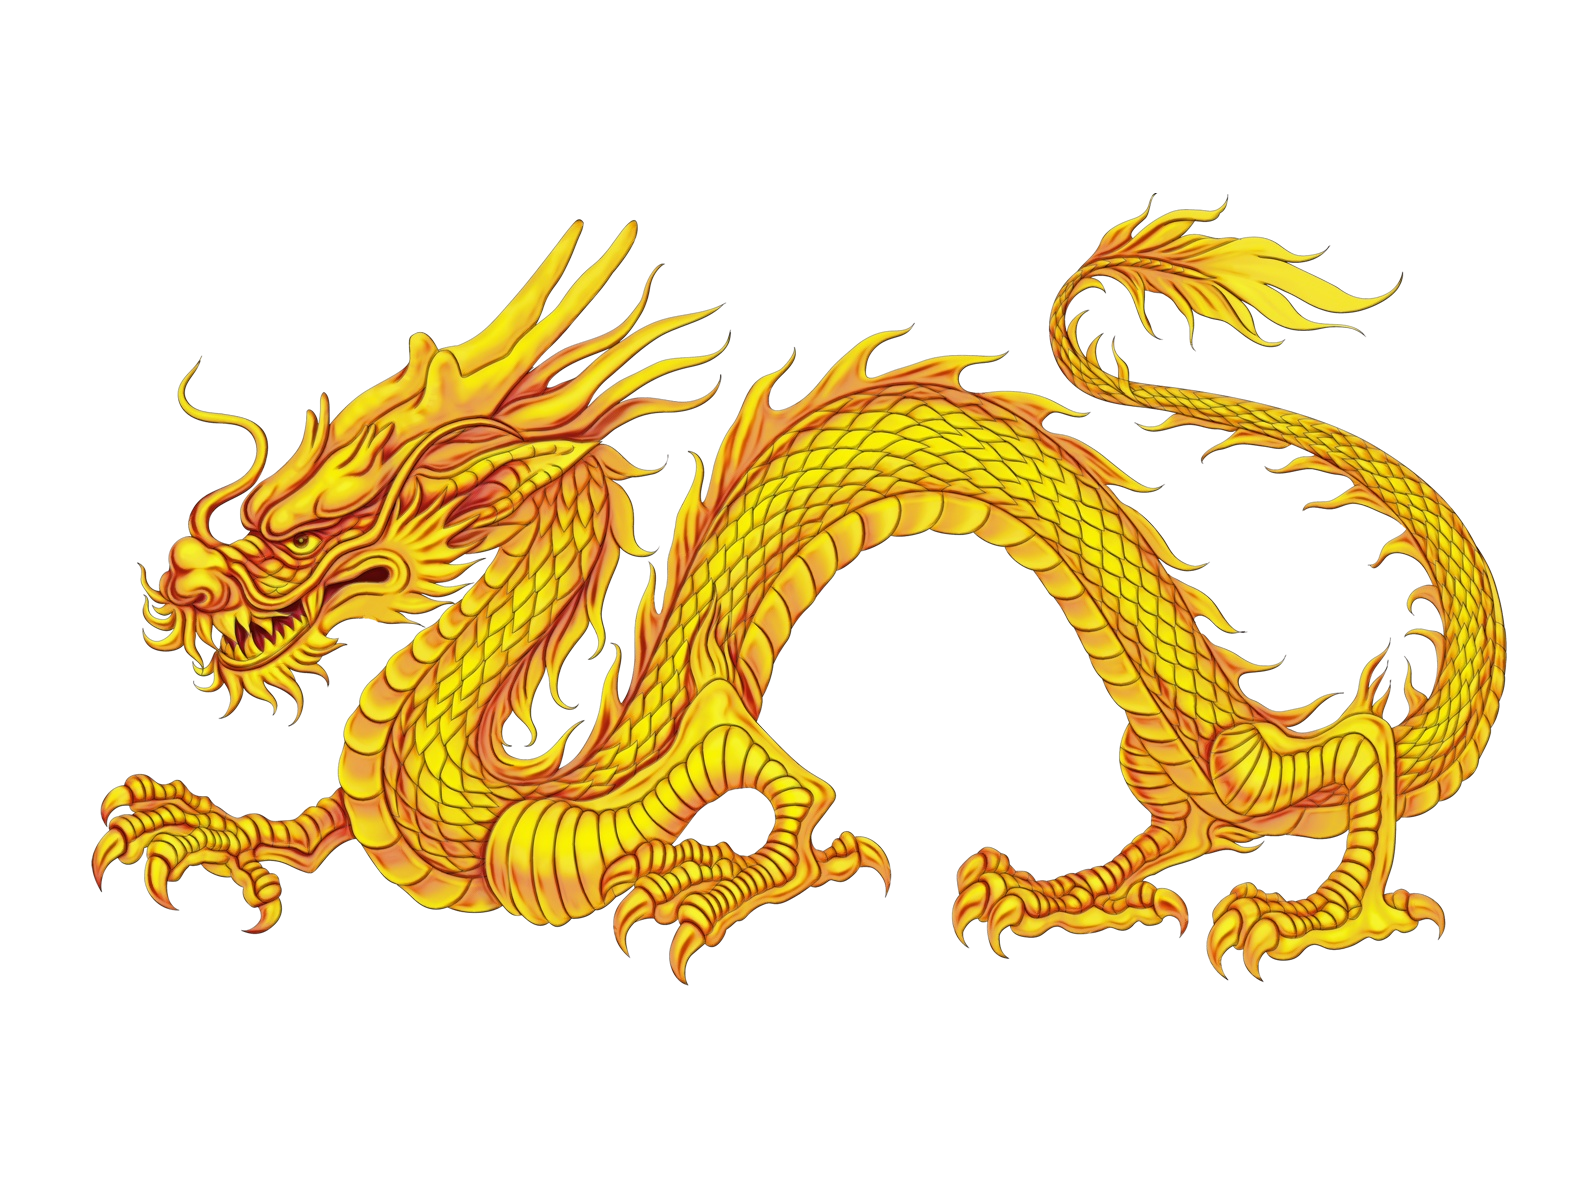
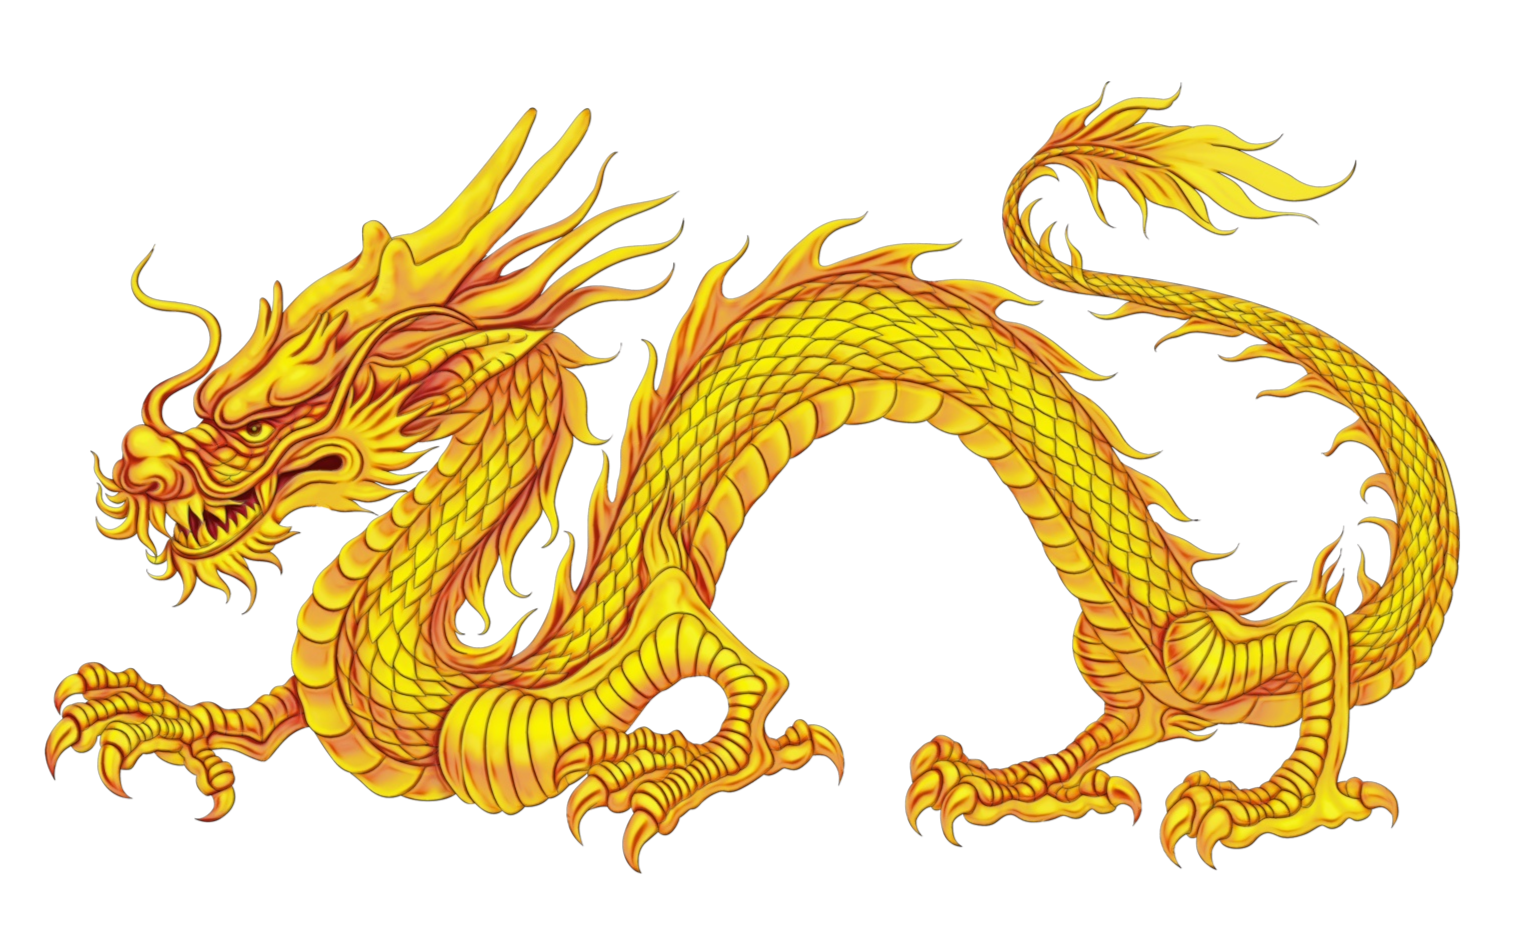
dragon size, droplet image fixed and cropped

diff --git a/index.html b/index.html
@@ -13,8 +13,8 @@
     <main>
       <h1>美術~ 卄卂几乙ㄖ~戦争<br> ㄒ卄🝗 闩尺七 ㄖﾁ 山闩尺</h1> <br> 
       <p> Samurai armies are landing in Tokyo in a last attempt to erradicate every single standing ninja left, 
-        only the great Hattori Hanzo stands. <br>
-        Surviving, not likely... Mission ,elminate the samurai menace once and for all <br>or die trying... <br>  Use arrows Left ⬅ & Right ⮕ to move. <br> "Spacebar ⎵ " to shoot & "DownArrow ⬇" for SmokeBomb power.  <br>
+        only the great Hattori Hanzo stands, reluctant to accept his obvious fate.<br>
+        Surviving, not likely... Mission ,elminate the samurai menace once and for all <br>or die trying... <br>  Use arrows Left ⬅ & Right ⮕ to move. <br> "Spacebar ⎵ " to shoot & "DownArrow ⬇" for teleportation.  <br>
         Move through the end of the canvas to appear on the other side. <br>Use the power of the Dragon to gain 1 live. Have fun! 
          </p> <br><br><br><br>
       <button id="start">丂セ闩尺〸</button>

diff --git a/js/droplets.js b/js/droplets.js
@@ -16,7 +16,7 @@ class Droplet {//Shall we say Army instead???
         if(this.y > 600 ){
             clearInterval(this.fallInterval);//???fall interval is not defined? 
          }
-         this.y = this.y + 1;
+         this.y = this.y + 1; //originally + 1
         
     }, 15)
 }
@@ -33,8 +33,11 @@ class Droplet {//Shall we say Army instead???
         if (this.role === 'droplet') { 
             this.image = droplets;//math.floor.math.random * dropletsArray.length???
         } else { 
-            this.image = dragon ; // No estoy seguro de que esto sirva para randomear la aparicion del dragon y su imagen
+            this.image = dragon; // No estoy seguro de que esto sirva para randomear la aparicion del dragon y su imagen
+            this.width = 90;
+            this.height = 60;//para cambiar tamaño de droplet if necessary 75
         }
+        
     }
 
 }

diff --git a/js/game.js b/js/game.js
@@ -53,7 +53,7 @@ class Game{
 }, 10)
 }
 
-  _assignControls() {
+  _assignControls() { //añadir default event move pantalla izquierda y derecha 
     // Controles del teclado
     document.addEventListener('keydown', (event) => {
       switch (event.code) {

diff --git a/js/assets.js b/js/assets.js
@@ -23,7 +23,6 @@ katana.src = '/images.js/weapons/Katana image2.png';
 
 
 
-// const dragonImage = [dragon];
-// const weapons = [kunai,katana]; // ???why?
+// const dropletsArray = 
 
 // Sounds go here  ===========================>
